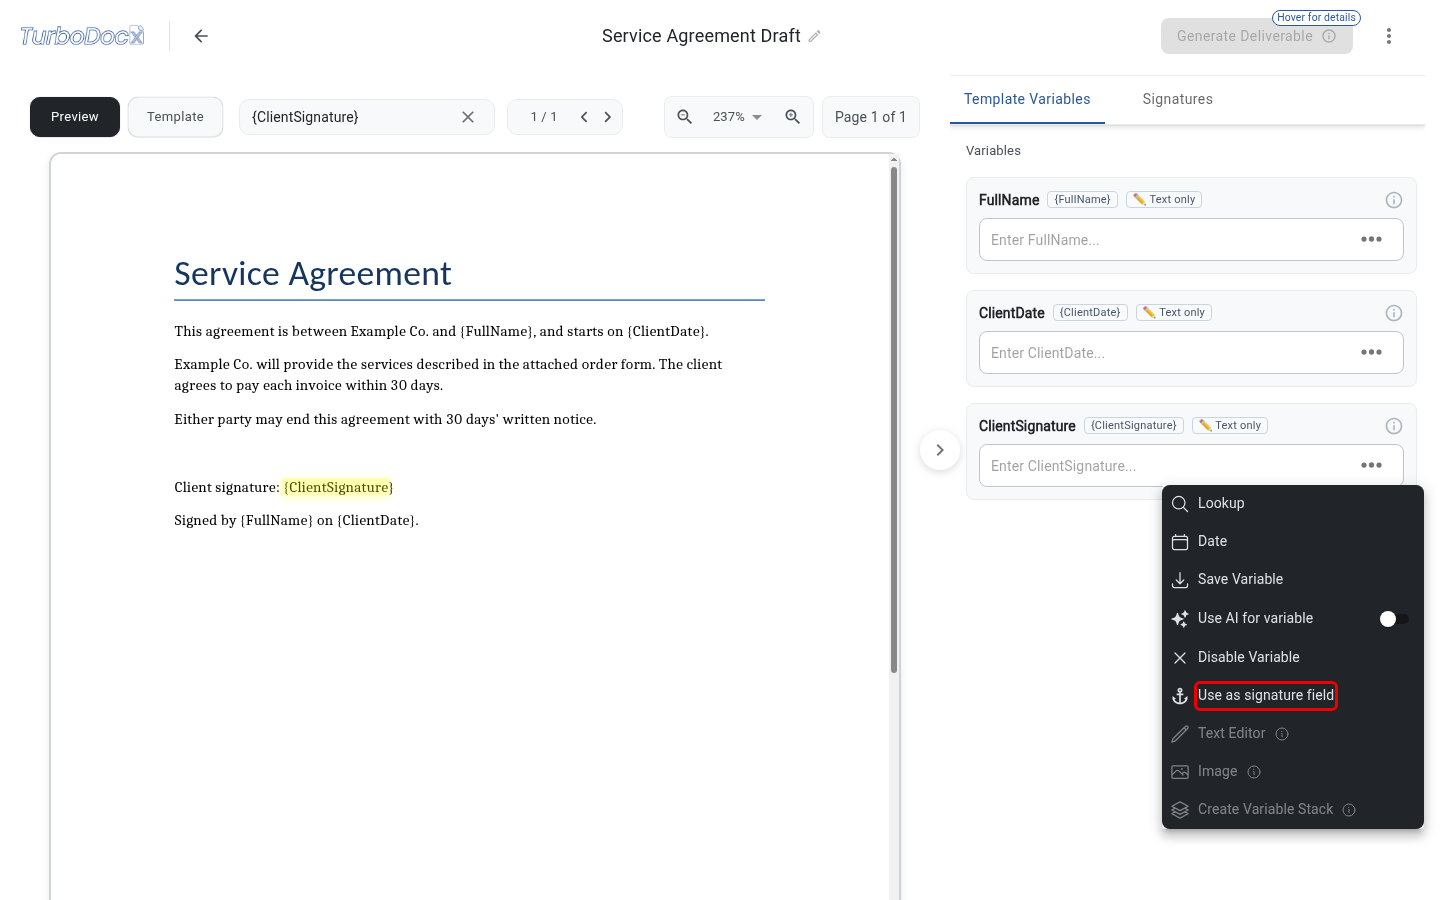
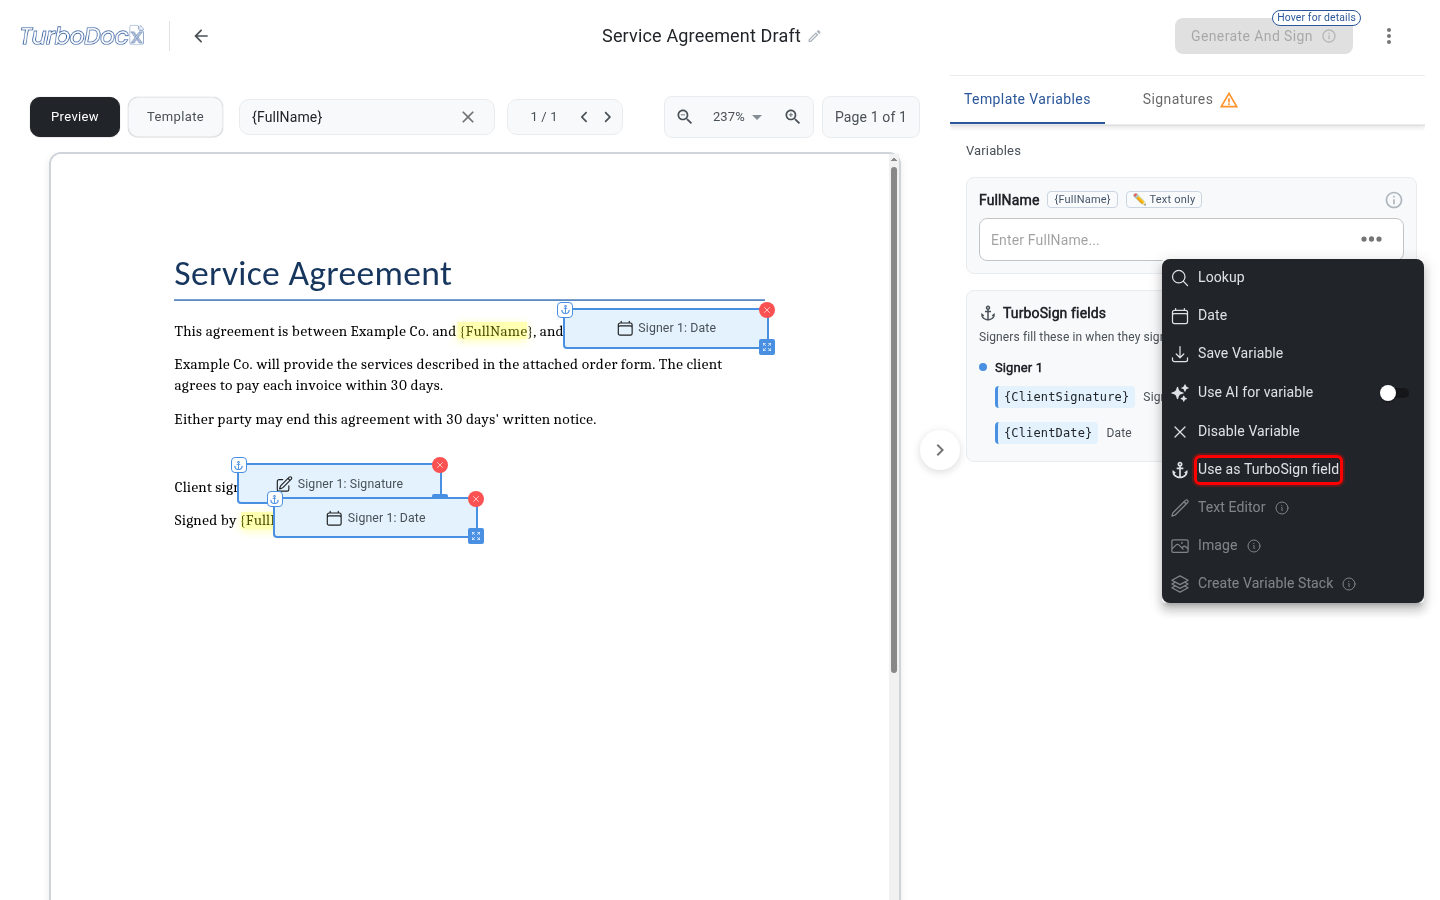
docs(turbosign): call anchored fields TurboSign fields and re-capture the screenshots
The product now calls a field anchored to a template variable a TurboSign
field, because it can be a signature, date, full name, company and more.
The guide's title, headings, steps, alt text and quoted labels now match
(TurboSign field, Use as TurboSign field, Make TurboSign Field, the
TurboSign fields list and the confirmation message). The Signature field
type, the Signatures tab and the signature setup keep their names. The file
name and URL stay the same, and the old search terms stay in the keywords.

Also says that making a field a normal variable again saves to the template
from either page, that removing a field on the generate page affects that
document only, and that documents made before a tag became a TurboSign
field don't contain the tag.

Re-captured the eight screenshots that show the renamed labels.

diff --git a/docs/TurboSign/How-to-Add-Signature-Fields-to-a-Template.md b/docs/TurboSign/How-to-Add-Signature-Fields-to-a-Template.md
@@ -1,8 +1,11 @@
 ---
-title: How to Add Signature Fields to a Template
+title: How to Add TurboSign Fields to a Template
 sidebar_position: 1.5
-description: "Turn the variables in a Word or PowerPoint template into TurboSign signature fields. Each field is anchored to its tag, so it lands wherever the tag appears in every document you create and send from the template."
+description: "Turn the variables in a Word or PowerPoint template into TurboSign fields, such as a signature, date or full name. Each field is anchored to its tag, so it lands wherever the tag appears in every document you create and send from the template."
 keywords:
+  - turbosign fields
+  - turbosign field on a template
+  - use as turbosign field
   - turbosign template signature fields
   - signature fields on a template
   - template variable signature field
@@ -13,22 +16,24 @@ keywords:
   - e-signature template
 ---
 
-# How to Add Signature Fields to a Template
+# How to Add TurboSign Fields to a Template
 
-If you send the same kind of document for signature again and again (a contract, an offer letter, an order form), you can tell TurboDocx which variables in the template are really signature fields. A variable such as `{ClientSignature}` then becomes an **anchored field**: when the document is sent, a field for the right signer goes wherever that tag appears. You don't place it by hand, and if the text moves, the field moves with it.
+If you send the same kind of document for signature again and again (a contract, an offer letter, an order form), you can tell TurboDocx which variables in the template are really filled in by the signer. Those variables become **TurboSign fields**. A TurboSign field can be a signature, a date, the signer's full name, their company and more.
+
+A variable such as `{ClientSignature}` then becomes an **anchored field**: when the document is sent, a field for the right signer goes wherever that tag appears. You don't place it by hand, and if the text moves, the field moves with it.
 
 This guide shows you how to:
 
-- Turn a variable into a signature field from the template's page
+- Turn a variable into a TurboSign field from the template's page
 - Anchor a field to a variable with its own size and offset, from **Edit Setup**
 - Check, change or undo anchored fields
 
 This works for **Word** and **PowerPoint** templates. To place fields at fixed spots on the page instead (and for PDF templates), see [How to Save a Signature Setup on a Template](./Signature-Setups-on-Templates.md). You can mix both: a signer can have anchored fields and placed fields in the same setup.
 
 :::note Before you start
-- Your template needs a variable in each place someone signs, for example `{ClientSignature}`. If you haven't made one yet, see [How to Create a Template](/docs/TurboDocx-Templating/How-to-Create-a-Template).
+- Your template needs a variable in each place the signer fills in, for example `{ClientSignature}`. If you haven't made one yet, see [How to Create a Template](/docs/TurboDocx-Templating/How-to-Create-a-Template).
 - You need permission to edit the template, and the template can't be locked.
-- The template doesn't need any signers yet. If it has none, your first signature field adds one called **Signer 1**.
+- The template doesn't need any signers yet. If it has none, your first TurboSign field adds one called **Signer 1**.
 :::
 
 ## How anchored fields work
@@ -36,7 +41,8 @@ This works for **Word** and **PowerPoint** templates. To place fields at fixed s
 - **Every place the tag appears gets its own field.** If `{ClientDate}` is in the first paragraph and again next to the signature, the signer fills in both.
 - **One field per tag.** A tag that already has a field can't get a second one, and a tag can't belong to two signers.
 - **The tag stays in the document until it's signed.** An anchored variable isn't something you fill in when you create the document. Its tag stays in the generated document, and the field covers it.
-- **A missing tag is skipped.** If someone edits the template and a tag is gone, that field is left out of the send. The send only stops if a signer would be left with no signature field at all.
+- **Documents you already made don't change.** A document generated before its tag became a TurboSign field doesn't contain the tag, so it gets no field from it.
+- **A missing tag is skipped.** If someone edits the template and a tag is gone, that field is left out of the send. The send only stops if a signer would be left with no TurboSign field at all.
 
 ## Step 1: Open the template's page
 
@@ -49,32 +55,32 @@ This works for **Word** and **PowerPoint** templates. To place fields at fixed s
 
    ![Template card menu with Edit Template & Preferences highlighted](/img/turbosign/template-signature-fields/02-edit-template-preferences.png)
 
-## Step 2: Turn a variable into a signature field
+## Step 2: Turn a variable into a TurboSign field
 
 1. On the **Variables** tab, find the variable, for example `{ClientSignature}`.
-2. Click the **•••** button inside its **Default Value** box, then click **Signature field**.
+2. Click the **•••** button inside its **Default Value** box, then click **TurboSign field**.
 
-   ![Variable menu on the template's Variables tab with Signature field highlighted](/img/turbosign/template-signature-fields/03-details-signature-field.png)
+   ![Variable menu on the template's Variables tab with TurboSign field highlighted](/img/turbosign/template-signature-fields/03-details-signature-field.png)
 
 3. In the window that opens:
-   - Choose the **Field type**, for example **Signature**.
+   - Choose the **Field type**, for example **Signature**, **Date** or **Full name**.
    - Under **Who signs here**, choose the signer. On a template with no signers yet, the list offers **1 · Signer 1**, which adds that signer for you. You can rename the signer later.
-4. Click **Make Signature Field**.
+4. Click **Make TurboSign Field**.
 
-   ![Use the tag as a signature field window with the Make Signature Field button highlighted](/img/turbosign/template-signature-fields/04-make-signature-field.png)
+   ![Use the tag as a TurboSign field window with the Make TurboSign Field button highlighted](/img/turbosign/template-signature-fields/04-make-signature-field.png)
 
-The field is saved to the template's signature setup right away. The variable's card now shows a **Signature field** badge and the field type and signer, for example **Signature, Signer 1**. The **Signature setup** tab counts the new signer.
+The field is saved to the template's signature setup right away. The variable's card now shows a **TurboSign field** badge and the field type and signer, for example **Signature, Signer 1**. The **Signature setup** tab counts the new signer.
 
-![ClientSignature variable card showing it is a signature field for Signer 1](/img/turbosign/template-signature-fields/05-details-variable-is-signature-field.png)
+![ClientSignature variable card showing it is a TurboSign field for Signer 1](/img/turbosign/template-signature-fields/05-details-variable-is-signature-field.png)
 
 Repeat for each variable a signer fills in. This way always uses the default size, which fits the tag. To set a size or an offset, use Step 3.
 
 :::tip From the generate page
-You can do the same on the page where you create a document: open the variable's **•••** menu on the **Template Variables** tab and click **Use as signature field**.
+You can do the same on the page where you create a document: open the variable's **•••** menu on the **Template Variables** tab and click **Use as TurboSign field**.
 
-![Variable menu on the generate page with Use as signature field highlighted](/img/turbosign/template-signature-fields/01-use-as-signature-field.png)
+![Variable menu on the generate page with Use as TurboSign field highlighted](/img/turbosign/template-signature-fields/01-use-as-signature-field.png)
 
-The same window opens. After you click **Make Signature Field**, a message confirms it, for example **`{FullName}` is now a signature field for Signer 1.** Click **Undo** in that message to take it back.
+The same window opens. After you click **Make TurboSign Field**, a message confirms it, for example **`{FullName}` is now a TurboSign field for Signer 1.** Click **Undo** in that message to take it back.
 
 ![Generate page with the confirmation message and its Undo button highlighted](/img/turbosign/template-signature-fields/15-made-signature-field-toast.png)
 
@@ -145,24 +151,24 @@ On the template's page, click the **Signature setup** tab. The **Fields** table 
 
 ![Fields table on the template's Signature setup tab](/img/turbosign/template-signature-fields/12-details-fields-table.png)
 
-## Change or undo a signature field
+## Change or undo a TurboSign field
 
 To change a field for good, use **Edit Setup** on the template's page (Step 3) and save.
 
-To make a signature field a normal variable again:
+To make a TurboSign field a normal variable again:
 
-- On the template's page, on the **Variables** tab, click the **⋮** button on the variable's signature field and choose **Make it a normal variable again**.
-- On the generate page, on the **Template Variables** tab, open the **•••** menu of the variable under **Signature fields** and choose **Make it a normal variable again**.
+- On the template's page, on the **Variables** tab, click the **⋮** button on the variable's TurboSign field and choose **Make it a normal variable again**.
+- On the generate page, on the **Template Variables** tab, open the **•••** menu of the variable under **TurboSign fields** and choose **Make it a normal variable again**.
 
-The variable goes back to the list of variables you fill in.
+Both save to the template right away. The variable goes back to the list of variables you fill in.
 
-![Signature fields menu on the generate page](/img/turbosign/template-signature-fields/13-signature-field-menu.png)
+![TurboSign fields menu on the generate page](/img/turbosign/template-signature-fields/13-signature-field-menu.png)
 
 :::caution Changes on the generate page are for that document only
-On the generate page, **Edit on the Signatures tab** opens the document's **Signatures** tab. Changes you make there apply to the document you're about to send, not to the template. To save them to the template, use **Edit Setup** instead, or **⋮ → Save signature setup to template** as described in [How to Save a Signature Setup on a Template](./Signature-Setups-on-Templates.md).
+On the generate page, **Edit on the Signatures tab** opens the document's **Signatures** tab. Changes you make there, such as removing a field, apply to the document you're about to send, not to the template. To save them to the template, use **Edit Setup** instead, or **⋮ → Save signature setup to template** as described in [How to Save a Signature Setup on a Template](./Signature-Setups-on-Templates.md).
 :::
 
-If you can't edit the template, the **Signature fields** list shows a **Change in the Signatures tab** link instead of the menu.
+If you can't edit the template, the **TurboSign fields** list shows a **Change in the Signatures tab** link instead of the menu.
 
 ## Send a document
 
